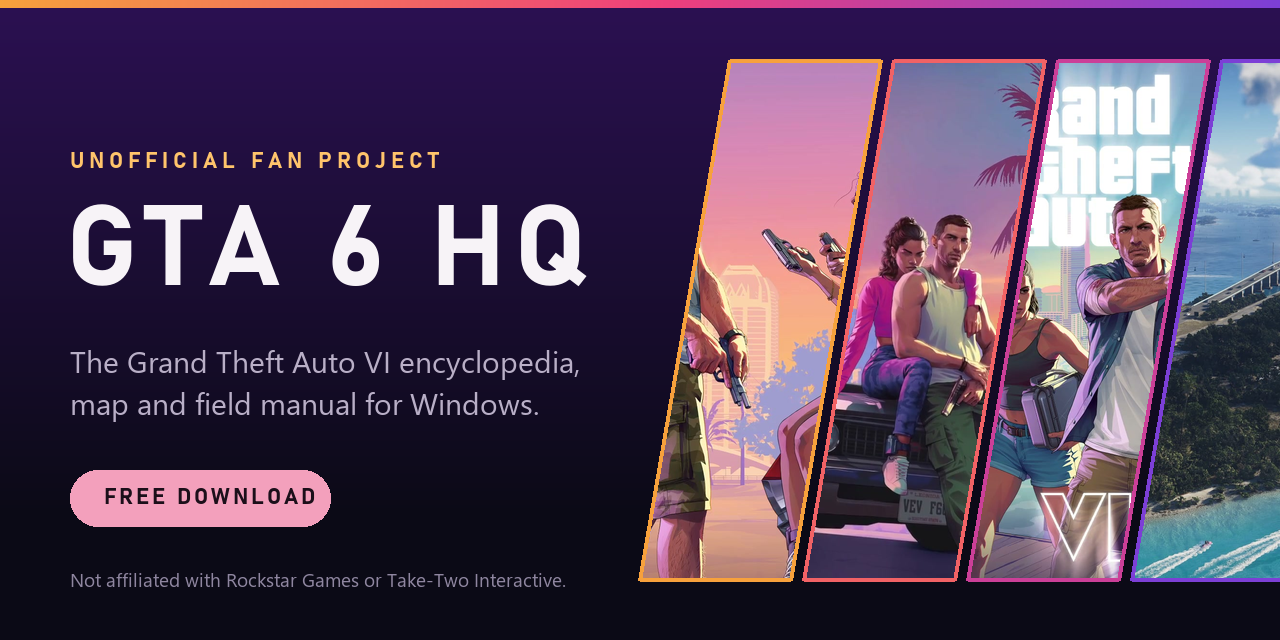
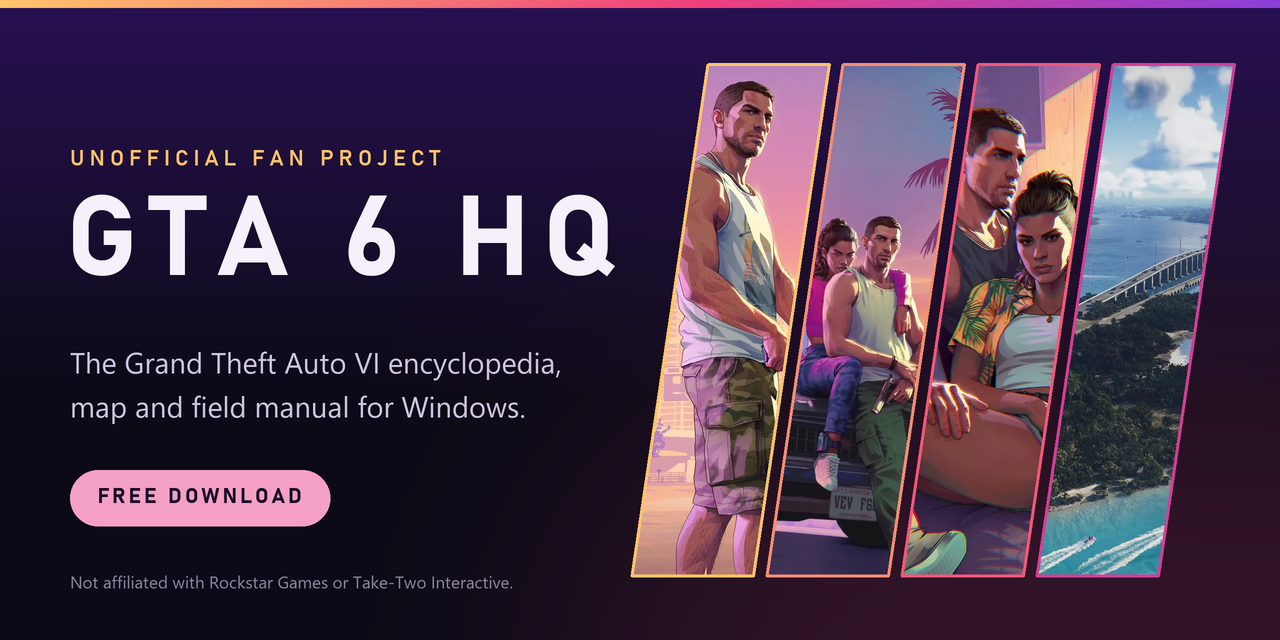
Release 0.2.10: a Vice City day and night switch in the Field Manual
The Manual's light and dark switch is a small drawn scene: the sun sets into
the bay, the moon rises, and windows and neon come on. The new look spreads
across the page in a circle from the switch. The repository's link card is
redrawn by scripts/make_social_preview.py so each picture shows a face.

diff --git a/ui/manual.js b/ui/manual.js
@@ -224,7 +224,39 @@
     return `<div class="m-toolbar">
       <a class="m-tool" href="#/manual">Contents</a>
       <form class="m-search" role="search"><input type="search" name="q" value="${esc(query || '')}" placeholder="Search the manual" aria-label="Search the manual" autocomplete="off"></form>
-      <button class="m-tool" type="button" data-action="theme" aria-pressed="${night}">${night ? 'Paper view' : 'Night reading'}</button>
+      <button class="m-skyswitch" type="button" role="switch" data-action="theme" aria-checked="${night}" aria-label="Night reading" title="Switch between day and night reading">
+        <span class="m-sky" aria-hidden="true">
+          <svg viewBox="0 0 128 44" width="128" height="44">
+            <defs>
+              <linearGradient id="m-sky-day" x1="0" y1="0" x2="0" y2="1"><stop offset="0" stop-color="#3aaed2"/><stop offset=".42" stop-color="#9fdcd6"/><stop offset=".72" stop-color="#ffd9b3"/><stop offset=".86" stop-color="#ffa6c2"/></linearGradient>
+              <linearGradient id="m-sky-dusk" x1="0" y1="0" x2="0" y2="1"><stop offset="0" stop-color="#5a2fc0"/><stop offset=".5" stop-color="#ee3f7c"/><stop offset=".86" stop-color="#ffab4a"/></linearGradient>
+              <linearGradient id="m-sky-night" x1="0" y1="0" x2="0" y2="1"><stop offset="0" stop-color="#060212"/><stop offset=".5" stop-color="#27105a"/><stop offset=".76" stop-color="#7d2a8d"/><stop offset=".86" stop-color="#ff4f9a"/></linearGradient>
+              <linearGradient id="m-sea-day" x1="0" y1="0" x2="0" y2="1"><stop offset="0" stop-color="#63cdd3"/><stop offset="1" stop-color="#2b86b4"/></linearGradient>
+              <linearGradient id="m-sea-night" x1="0" y1="0" x2="0" y2="1"><stop offset="0" stop-color="#3a1466"/><stop offset="1" stop-color="#0a0418"/></linearGradient>
+              <radialGradient id="m-sun"><stop offset="0" stop-color="#fffbe0"/><stop offset=".55" stop-color="#ffd76a"/><stop offset="1" stop-color="#ff9a3c"/></radialGradient>
+              <radialGradient id="m-halo"><stop offset="0" stop-color="#fff2c0" stop-opacity=".75"/><stop offset="1" stop-color="#fff2c0" stop-opacity="0"/></radialGradient>
+              <g id="m-palm" fill="none" stroke-linecap="round"><path stroke-width="1.3" d="M0 0q1.6-8-.6-16"/><path stroke-width="1.1" d="M-.6-16q-4-3.5-8.5-.5M-.6-16q-3.5-5.5-8-4.5M-.6-16q-.5-5.5 3-7.5M-.6-16q4-5 8.5-3M-.6-16q5-2 8 2.5M-.6-16q-3 .5-5 5M-.6-16q2.5 1 3.5 5.5"/></g>
+            </defs>
+            <rect width="128" height="44" fill="url(#m-sky-day)"/>
+            <rect class="m-dusk" width="128" height="44" fill="url(#m-sky-dusk)"/>
+            <rect class="m-night" width="128" height="44" fill="url(#m-sky-night)"/>
+            <g class="m-stars" fill="#fff"><circle cx="14" cy="7" r=".6"/><circle cx="27" cy="13" r=".45"/><circle cx="41" cy="5" r=".7"/><circle cx="58" cy="4" r=".45"/><circle cx="68" cy="10" r=".55"/><circle cx="82" cy="5" r=".45"/><circle cx="112" cy="8" r=".6"/><circle cx="120" cy="16" r=".45"/><circle cx="6" cy="17" r=".45"/><circle cx="74" cy="15" r=".4" fill="#ffc4e4"/><circle cx="35" cy="9" r=".4" fill="#c9b6ff"/></g>
+            <g class="m-sun"><circle cx="38" cy="17" r="15" fill="url(#m-halo)"/><circle cx="38" cy="17" r="7" fill="url(#m-sun)"/></g>
+            <g class="m-moon"><circle cx="97" cy="12" r="10" fill="url(#m-halo)" opacity=".5"/><path fill="#fff3d2" d="M99.5 5.2a7 7 0 1 0 4.4 11.2a5.6 5.6 0 0 1-4.4-11.2z"/></g>
+            <path class="m-far" d="M0 37V29h4v-3h5v3h9v-6h4v6h7v-9h5v9h12v-4h4v-4h5v8h14v-7h6v7h9v-5h5v5h13v-8h5v8h8v-4h6v4h3v8z"/>
+            <g class="m-near"><rect class="m-b-pe" x="8" y="24" width="12" height="13"/><rect class="m-b-pe" x="10" y="22" width="8" height="2"/><rect class="m-b-li" x="22" y="15" width="8" height="22"/><rect class="m-b-li" x="25.6" y="11" width="0.8" height="4"/><rect class="m-b-pk" x="33" y="27" width="14" height="10"/><rect class="m-b-pk" x="50" y="12" width="10" height="25"/><rect class="m-b-pk" x="52" y="10" width="6" height="2"/><rect class="m-b-pk" x="54.6" y="6" width="0.8" height="4"/><rect class="m-b-pe" x="63" y="21" width="11" height="16"/><rect class="m-b-pe" x="65" y="19" width="7" height="2"/><rect class="m-b-li" x="77" y="17" width="7" height="20"/><rect class="m-b-li" x="80.1" y="14" width="0.8" height="3"/><rect class="m-b-pk" x="88" y="26" width="14" height="11"/><rect class="m-b-pe" x="105" y="19" width="9" height="18"/><rect class="m-b-pe" x="107" y="17" width="5" height="2"/></g>
+            <g class="m-shade"><rect x="15.4" y="24" width="4.6" height="13"/><rect x="27.0" y="15" width="3.0" height="22"/><rect x="41.7" y="27" width="5.3" height="10"/><rect x="56.2" y="12" width="3.8" height="25"/><rect x="69.8" y="21" width="4.2" height="16"/><rect x="81.3" y="17" width="2.7" height="20"/><rect x="96.7" y="26" width="5.3" height="11"/><rect x="110.6" y="19" width="3.4" height="18"/></g>
+            <g class="m-windows"><rect class="m-w" x="16" y="26" width="1.3" height="1.3"/><rect class="m-wc" x="10" y="29" width="1.3" height="1.3"/><rect class="m-w" x="13" y="29" width="1.3" height="1.3"/><rect class="m-w" x="16" y="29" width="1.3" height="1.3"/><rect class="m-w" x="10" y="32" width="1.3" height="1.3"/><rect class="m-wc" x="24" y="17" width="1.3" height="1.3"/><rect class="m-w" x="27" y="17" width="1.3" height="1.3"/><rect class="m-w" x="24" y="20" width="1.3" height="1.3"/><rect class="m-w" x="27" y="20" width="1.3" height="1.3"/><rect class="m-wp" x="24" y="23" width="1.3" height="1.3"/><rect class="m-w" x="27" y="29" width="1.3" height="1.3"/><rect class="m-wp" x="24" y="32" width="1.3" height="1.3"/><rect class="m-w" x="27" y="32" width="1.3" height="1.3"/><rect class="m-w" x="41" y="29" width="1.3" height="1.3"/><rect class="m-w" x="44" y="29" width="1.3" height="1.3"/><rect class="m-wp" x="35" y="32" width="1.3" height="1.3"/><rect class="m-w" x="38" y="32" width="1.3" height="1.3"/><rect class="m-w" x="52" y="14" width="1.3" height="1.3"/><rect class="m-w" x="55" y="14" width="1.3" height="1.3"/><rect class="m-wp" x="52" y="17" width="1.3" height="1.3"/><rect class="m-w" x="55" y="23" width="1.3" height="1.3"/><rect class="m-wp" x="52" y="26" width="1.3" height="1.3"/><rect class="m-w" x="55" y="26" width="1.3" height="1.3"/><rect class="m-wc" x="52" y="29" width="1.3" height="1.3"/><rect class="m-w" x="55" y="29" width="1.3" height="1.3"/><rect class="m-w" x="52" y="32" width="1.3" height="1.3"/><rect class="m-wp" x="65" y="23" width="1.3" height="1.3"/><rect class="m-w" x="68" y="26" width="1.3" height="1.3"/><rect class="m-w" x="71" y="26" width="1.3" height="1.3"/><rect class="m-wp" x="65" y="29" width="1.3" height="1.3"/><rect class="m-w" x="68" y="29" width="1.3" height="1.3"/><rect class="m-w" x="71" y="32" width="1.3" height="1.3"/><rect class="m-wp" x="79" y="19" width="1.3" height="1.3"/><rect class="m-w" x="79" y="22" width="1.3" height="1.3"/><rect class="m-wc" x="79" y="25" width="1.3" height="1.3"/><rect class="m-w" x="79" y="28" width="1.3" height="1.3"/><rect class="m-w" x="79" y="31" width="1.3" height="1.3"/><rect class="m-w" x="79" y="34" width="1.3" height="1.3"/><rect class="m-wp" x="90" y="28" width="1.3" height="1.3"/><rect class="m-w" x="93" y="28" width="1.3" height="1.3"/><rect class="m-wc" x="96" y="28" width="1.3" height="1.3"/><rect class="m-wp" x="96" y="31" width="1.3" height="1.3"/><rect class="m-w" x="99" y="31" width="1.3" height="1.3"/><rect class="m-wc" x="90" y="34" width="1.3" height="1.3"/><rect class="m-w" x="93" y="34" width="1.3" height="1.3"/><rect class="m-wp" x="107" y="21" width="1.3" height="1.3"/><rect class="m-w" x="110" y="21" width="1.3" height="1.3"/><rect class="m-wc" x="107" y="24" width="1.3" height="1.3"/><rect class="m-w" x="110" y="30" width="1.3" height="1.3"/><rect class="m-wc" x="107" y="33" width="1.3" height="1.3"/><rect class="m-w" x="110" y="33" width="1.3" height="1.3"/></g>
+            <g class="m-neon"><rect x="33" y="26.2" width="14" height="1" fill="#ff4fa0"/><rect x="88" y="25.2" width="14" height="1" fill="#57e6ff"/><rect x="55.6" y="14" width="1" height="9" fill="#ff4fa0"/><rect x="8" y="23.2" width="12" height=".8" fill="#ffb347"/></g>
+            <rect width="128" height="7" y="37" fill="url(#m-sea-day)"/>
+            <rect class="m-night" width="128" height="7" y="37" fill="url(#m-sea-night)"/>
+            <g class="m-glint" fill="#fff1c9"><rect x="33" y="38.4" width="10" height=".7"/><rect x="35" y="40" width="6" height=".7"/><rect x="36.5" y="41.6" width="3" height=".7"/></g>
+            <g class="m-neon m-wake"><rect x="35" y="38.2" width="10" height=".8" fill="#ff4fa0"/><rect x="37" y="40" width="6" height=".7" fill="#ff4fa0"/><rect x="90" y="38.2" width="10" height=".8" fill="#57e6ff"/><rect x="92" y="40" width="6" height=".7" fill="#57e6ff"/><rect x="94" y="41.6" width="7" height=".7" fill="#fff3d2"/><rect x="12" y="38.6" width="6" height=".7" fill="#ffb347"/></g>
+            <g class="m-palms"><use href="#m-palm" transform="translate(7 46) scale(1.35)"/><use href="#m-palm" transform="translate(17 45) scale(.85 .95)"/><use href="#m-palm" transform="translate(120 46) scale(-1.4 1.4)"/><use href="#m-palm" transform="translate(110 45) scale(.8 .9)"/><use href="#m-palm" transform="translate(70 45) scale(-.7 .78)"/></g>
+          </svg>
+        </span>
+        <span class="m-sky-word">${night ? 'Night' : 'Day'}</span>
+      </button>
       <button class="m-tool" type="button" data-action="copy">Copy link</button>
     </div>`;
   }
@@ -331,9 +363,32 @@
       e.preventDefault();
       location.hash = `#/manual/search?q=${encodeURIComponent(e.target.elements.q.value)}`;
     });
-    root.querySelector('[data-action="theme"]').addEventListener('click', () => {
-      store.set('theme', store.get('theme') === 'night' ? 'paper' : 'night');
-      draw();
+    // Day and night reading. The switch is a small sky: the sun sets and the moon rises over the
+    // skyline, and the new look spreads across the whole page in a circle from the switch itself.
+    const sky = root.querySelector('[data-action="theme"]');
+    sky.addEventListener('click', () => {
+      const night = store.get('theme') !== 'night';
+      store.set('theme', night ? 'night' : 'paper');
+      const apply = () => {
+        root.classList.toggle('manual-night', night);
+        sky.setAttribute('aria-checked', String(night));
+        sky.querySelector('.m-sky-word').textContent = night ? 'Night' : 'Day';
+        sky.classList.remove('is-turning');
+        void sky.offsetWidth; // so the dusk glow plays again on a second press
+        sky.classList.add('is-turning');
+      };
+      if (!document.startViewTransition) { apply(); return; }
+      const box = sky.querySelector('.m-sky').getBoundingClientRect();
+      const x = box.left + box.width / 2, y = box.top + box.height / 2;
+      const reach = Math.hypot(Math.max(x, window.innerWidth - x), Math.max(y, window.innerHeight - y));
+      const html = document.documentElement;
+      html.classList.add('m-sky-turn');
+      const turn = document.startViewTransition(apply);
+      turn.ready.then(() => html.animate(
+        { clipPath: [`circle(0px at ${x}px ${y}px)`, `circle(${Math.ceil(reach)}px at ${x}px ${y}px)`] },
+        { duration: 950, easing: 'cubic-bezier(0.45, 0, 0.2, 1)', pseudoElement: '::view-transition-new(root)' },
+      )).catch(() => {});
+      turn.finished.finally(() => html.classList.remove('m-sky-turn'));
     });
     // Every picture can also be reached with Tab and opened with Enter or Space.
     root.querySelectorAll('.m-page img').forEach((img) => {

diff --git a/ui/manual.css b/ui/manual.css
@@ -67,6 +67,52 @@
   cursor: pointer;
 }
 .m-tool:hover, .m-turn:hover { border-color: #ee3f7c; background: rgba(238, 63, 124, 0.16); }
+
+/* The day and night switch: a small window onto Vice City. By day it is the cover-art look: an
+   aqua sky going peach and pink at the horizon, pastel hotels, violet palms and the sun on the
+   water. Press it and the sun sets into the bay, the sky passes through a hot sunset, and it is
+   night: the moon and stars, lit windows, neon signs and their colours lying on the water.
+   It is a switch (role="switch"), so it also works from the keyboard. */
+.m-skyswitch { display: inline-flex; align-items: center; gap: 10px; padding: 0 12px 0 0; border: 0; background: none; cursor: pointer;
+  color: #f7f3f7; font: 700 0.72rem var(--manual-display); letter-spacing: 0.12em; text-transform: uppercase;
+  --m-pk: #ffadc6; --m-pe: #ffc9a3; --m-li: #c9a9ef; }
+.m-skyswitch[aria-checked="true"] { --m-pk: #160a2c; --m-pe: #1b0d33; --m-li: #110826; }
+.m-sky { display: block; flex: none; padding: 2px; border-radius: 24px; background: var(--manual-sunset);
+  box-shadow: 0 4px 14px rgba(0, 0, 0, 0.5); transition: box-shadow 0.3s ease; }
+.m-skyswitch:hover .m-sky { box-shadow: 0 0 20px rgba(238, 63, 124, 0.7); }
+.m-sky svg { display: block; border-radius: 22px; }
+.m-sky svg * { transition: fill 0.9s ease, stroke 0.9s ease, opacity 0.9s ease; }
+.m-sky .m-dusk, .m-sky .m-night, .m-sky .m-stars, .m-sky .m-neon { opacity: 0; }
+.m-sky .m-b-pk { fill: var(--m-pk); } .m-sky .m-b-pe { fill: var(--m-pe); } .m-sky .m-b-li { fill: var(--m-li); }
+.m-sky .m-far { fill: #d7a2d8; opacity: 0.75; }
+.m-sky .m-shade { fill: #6a3fa8; opacity: 0.24; }
+.m-sky .m-windows rect { fill: #7b4fb5; opacity: 0.4; }
+.m-sky .m-palms { stroke: #56389a; }
+.m-sky .m-neon { filter: drop-shadow(0 0 1.2px #ff4fa0); }
+.m-sky .m-sun { transition: transform 0.85s cubic-bezier(0.2, 0.7, 0.3, 1) 0.35s; }
+.m-sky .m-moon { transform: translateY(36px); transition: transform 0.8s cubic-bezier(0.5, 0, 0.75, 0.4); }
+.m-skyswitch[aria-checked="true"] .m-night { opacity: 1; }
+.m-skyswitch[aria-checked="true"] .m-stars { opacity: 1; transition-delay: 0.5s; }
+.m-skyswitch[aria-checked="true"] .m-sun { transform: translateY(30px); transition: transform 0.85s cubic-bezier(0.5, 0, 0.75, 0.4); }
+.m-skyswitch[aria-checked="true"] .m-moon { transform: none; transition: transform 0.85s cubic-bezier(0.2, 0.7, 0.3, 1) 0.4s; }
+.m-skyswitch[aria-checked="true"] .m-far { fill: #2a1560; opacity: 1; }
+.m-skyswitch[aria-checked="true"] .m-shade { opacity: 0; }
+.m-skyswitch[aria-checked="true"] .m-glint { opacity: 0; }
+.m-skyswitch[aria-checked="true"] .m-palms { stroke: #05020c; }
+.m-skyswitch[aria-checked="true"] .m-windows rect { opacity: 1; transition-delay: 0.6s; }
+.m-skyswitch[aria-checked="true"] .m-windows .m-w { fill: #ffd76a; }
+.m-skyswitch[aria-checked="true"] .m-windows .m-wp { fill: #ff7fc0; }
+.m-skyswitch[aria-checked="true"] .m-windows .m-wc { fill: #7fe9ff; }
+.m-skyswitch[aria-checked="true"] .m-neon { opacity: 1; transition-delay: 0.75s; }
+.m-skyswitch[aria-checked="true"] .m-wake { opacity: 0.8; }
+.m-skyswitch.is-turning .m-dusk { animation: m-sky-dusk 1.05s ease both; }
+@keyframes m-sky-dusk { 0% { opacity: 0; } 42% { opacity: 1; } 100% { opacity: 0; } }
+.m-sky-word { min-width: 3.6em; text-align: left; }
+/* While the look changes, the new page is drawn over the old one and uncovered in a growing circle
+   (driven from manual.js); the browser's own cross-fade is switched off for that moment. */
+html.m-sky-turn::view-transition-old(root), html.m-sky-turn::view-transition-new(root) { animation: none; mix-blend-mode: normal; }
+html.m-sky-turn::view-transition-old(root) { z-index: 1; }
+html.m-sky-turn::view-transition-new(root) { z-index: 2; }
 .m-turn[rel="next"] { border-color: transparent; background: var(--manual-sunset); }
 .m-turn[rel="next"]:hover { filter: brightness(1.12); }
 .m-turn.is-off { opacity: 0.35; cursor: default; }
@@ -264,6 +310,15 @@
   .m-chapmark { font-size: 5rem; opacity: 0.35; }
 }
 @media (prefers-reduced-motion: reduce) {
+  /* The sky switch still plays: the owner asked for the app's motion to run with Windows animation effects off. */
+  .m-sky svg * { transition: fill 0.9s ease, stroke 0.9s ease, opacity 0.9s ease !important; }
+  .m-skyswitch[aria-checked="true"] .m-sky .m-stars, .m-skyswitch[aria-checked="true"] .m-sky .m-windows rect,
+  .m-skyswitch[aria-checked="true"] .m-sky .m-neon { transition: fill 0.9s ease 0.6s, opacity 0.9s ease 0.6s !important; }
+  .m-skyswitch .m-sky .m-sun { transition: transform 0.85s cubic-bezier(0.2, 0.7, 0.3, 1) 0.35s !important; }
+  .m-skyswitch[aria-checked="true"] .m-sky .m-sun { transition: transform 0.85s cubic-bezier(0.5, 0, 0.75, 0.4) !important; }
+  .m-skyswitch .m-sky .m-moon { transition: transform 0.8s cubic-bezier(0.5, 0, 0.75, 0.4) !important; }
+  .m-skyswitch[aria-checked="true"] .m-sky .m-moon { transition: transform 0.85s cubic-bezier(0.2, 0.7, 0.3, 1) 0.4s !important; }
+  .m-skyswitch.is-turning .m-sky .m-dusk { animation: m-sky-dusk 1.05s ease both !important; }
   .m-entry.has-image .m-figure img { transition: none; }
 }
 

diff --git a/scripts/make_social_preview.py b/scripts/make_social_preview.py
@@ -1,0 +1,111 @@
+"""Draw the link card shown when the repository is shared (docs/press/social-preview.png).
+
+    python scripts/make_social_preview.py
+
+1280 x 640, the size GitHub asks for. The words sit on the left; on the right is a row of
+slanted, cut-edge picture cards like the app's page headers. Each card names the point in
+its picture that must stay in view (a face, not a shoulder), and the whole row stays inside
+the frame. Needs Pillow and the Windows fonts Bahnschrift and Segoe UI.
+"""
+import os
+from PIL import Image, ImageDraw, ImageFilter, ImageFont
+
+ROOT = os.path.dirname(os.path.dirname(os.path.abspath(__file__)))
+OUT = os.path.join(ROOT, 'docs', 'press', 'social-preview.png')
+W, H, S = 1280, 640, 2  # drawn at twice the size, then scaled down for smooth edges
+INK, DEEP = (40, 16, 82), (11, 10, 22)
+SUNSET = [(255, 196, 107), (238, 63, 124), (139, 63, 217)]
+PAPER, MUTED, GOLD, PINK = (246, 240, 250), (176, 168, 196), (255, 196, 107), (244, 160, 196)
+
+# (picture, x and y in the picture of the point to keep in the middle of the card, zoom)
+CARDS = [
+    ('images/vice-city-sunset.jpg', 770, 330, 1.0),
+    ('images/muscle-car-pastel-palms.jpg', 985, 520, 1.0),
+    ('images/dawn-of-the-heist.jpg', 765, 300, 1.0),
+    ('images/locations/leonida-keys.jpg', 960, 540, 1.0),
+]
+ROW_LEFT, ROW_RIGHT, ROW_TOP, ROW_BOTTOM, LEAN, GAP = 632, 1236, 64, 576, 76, 14
+
+
+def mix(a, b, t):
+    t = max(0, min(1, t))
+    return tuple(round(x + (y - x) * t) for x, y in zip(a, b))
+
+
+def sunset(t):
+    return mix(SUNSET[0], SUNSET[1], t / 0.55) if t < 0.55 else mix(SUNSET[1], SUNSET[2], (t - 0.55) / 0.45)
+
+
+def font(name, size, weight=None):
+    f = ImageFont.truetype(os.path.join(os.environ.get('WINDIR', r'C:\Windows'), 'Fonts', name), size * S)
+    if weight:
+        f.set_variation_by_axes([weight, 100])  # Bahnschrift: weight, width
+    return f
+
+
+def spaced(d, xy, text, f, fill, track):
+    """Text with extra space between letters; returns the x where it ends."""
+    x, y = xy
+    for ch in text:
+        d.text((x, y), ch, font=f, fill=fill)
+        x += d.textlength(ch, font=f) + track * S
+    return x - track * S
+
+
+def card(base, path, fx, fy, zoom, x, y, w, h, lean):
+    """One picture as a parallelogram leaning right, cropped so (fx, fy) sits in its middle."""
+    src = Image.open(os.path.join(ROOT, path)).convert('RGB')
+    box_w = w + lean
+    scale = max(box_w / src.width, h / src.height) * zoom
+    src = src.resize((round(src.width * scale), round(src.height * scale)), Image.LANCZOS)
+    top = min(max(0, round(fy * scale - h / 2)), src.height - h)
+    row = fy * scale - top                      # how far down the card the point lands
+    middle = lean * (1 - row / h) + w / 2       # the middle of the slanted card at that height
+    left = min(max(0, round(fx * scale - middle)), src.width - box_w)
+    shape = [(x + lean, y), (x + w + lean, y), (x + w, y + h), (x, y + h)]
+    mask = Image.new('L', base.size, 0)
+    ImageDraw.Draw(mask).polygon(shape, fill=255)
+    layer = Image.new('RGB', base.size)
+    layer.paste(src.crop((left, top, left + box_w, top + h)), (x, y))
+    base.paste(layer, (0, 0), mask)
+    ImageDraw.Draw(base).line(shape + [shape[0]], fill=sunset((x - ROW_LEFT * S) / ((ROW_RIGHT - ROW_LEFT) * S)),
+                              width=3 * S, joint='curve')
+
+
+def main():
+    w, h = W * S, H * S
+    img = Image.new('RGB', (w, h))
+    d = ImageDraw.Draw(img)
+    for y in range(h):
+        d.line([(0, y), (w, y)], fill=mix(INK, DEEP, y / (h * 0.62)))
+    glow = Image.new('L', (w, h), 0)
+    ImageDraw.Draw(glow).ellipse([w * 0.45, h * 0.55, w * 1.2, h * 1.5], fill=46)
+    img.paste(Image.new('RGB', (w, h), SUNSET[1]), (0, 0), glow.filter(ImageFilter.GaussianBlur(w // 9)))
+    d = ImageDraw.Draw(img)
+    for x in range(w):
+        d.line([(x, 0), (x, 8 * S - 1)], fill=sunset(x / w))
+
+    n = len(CARDS)
+    each = (ROW_RIGHT - ROW_LEFT - LEAN - GAP * (n - 1)) // n
+    for i, (path, fx, fy, zoom) in enumerate(CARDS):
+        card(img, path, fx, fy, zoom, (ROW_LEFT + i * (each + GAP)) * S, ROW_TOP * S,
+             each * S, (ROW_BOTTOM - ROW_TOP) * S, LEAN * S)
+
+    d = ImageDraw.Draw(img)
+    left = 70 * S
+    spaced(d, (left, 148 * S), 'UNOFFICIAL FAN PROJECT', font('bahnschrift.ttf', 22, 600), GOLD, 5)
+    spaced(d, (left - 4 * S, 186 * S), 'GTA 6 HQ', font('bahnschrift.ttf', 112, 700), PAPER, 12)
+    body = font('segoeui.ttf', 29)
+    d.text((left, 342 * S), 'The Grand Theft Auto VI encyclopedia,', font=body, fill=(206, 198, 224))
+    d.text((left, 386 * S), 'map and field manual for Windows.', font=body, fill=(206, 198, 224))
+    d.rounded_rectangle([left, 470 * S, left + 260 * S, 526 * S], radius=28 * S, fill=PINK)
+    label = font('bahnschrift.ttf', 21, 700)
+    end = spaced(d, (0, -200 * S), 'FREE DOWNLOAD', label, PINK, 3)  # measured off the canvas
+    spaced(d, (left + (260 * S - end) // 2, 486 * S), 'FREE DOWNLOAD', label, (24, 10, 40), 3)
+    d.text((left, 570 * S), 'Not affiliated with Rockstar Games or Take-Two Interactive.',
+           font=font('segoeui.ttf', 17), fill=(140, 132, 162))
+    img.resize((W, H), Image.LANCZOS).save(OUT, optimize=True)
+    print('wrote', os.path.relpath(OUT, ROOT))
+
+
+main()

diff --git a/CHANGELOG.md b/CHANGELOG.md
@@ -2,6 +2,11 @@
 
 Every version is on the [releases page](https://github.com/xpbeats00-sudo/gta6-hq/releases). Newest first.
 
+## 0.2.10 (12 November 2026)
+
+- The Field Manual's day and night switch is a small Vice City scene. By day: pastel hotels, palms and the sun on the bay. Press it and the sun sets, the moon rises, and the windows and neon signs come on. The new look spreads across the page in a circle from the switch.
+- The link card shown when the repository is shared is redrawn so every picture shows a face and sits inside the frame; `scripts/make_social_preview.py` draws it.
+
 ## 0.2.9 (12 November 2026)
 
 - The splash screen dissolves into Home while the app eases in behind it, instead of cutting to it. This now plays even when Windows animation effects are turned off.

diff --git a/README.md b/README.md
@@ -93,6 +93,7 @@ Click any picture to see it full screen.
 
 ## What's new
 
+**0.2.10**: the Field Manual's day and night switch is a small Vice City scene, and the new look spreads across the page from it.
 **0.2.9**: the splash screen dissolves smoothly into Home.
 **0.2.8**: the police lights flash at a real emergency-lamp rate, and the update stage is easier to read.
 **0.2.7**: the app can update itself from Home, with police lights down the sides while it does.
